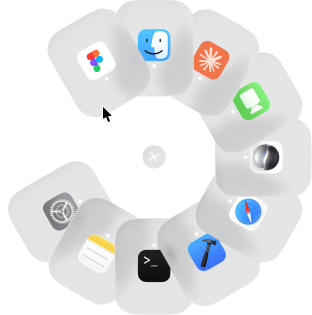
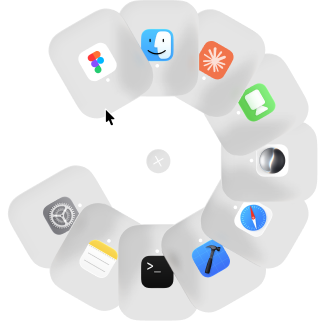
Update Highlight cards with clean unclipped Figma 10:2643 exports

diff --git a/docs/index.html b/docs/index.html
@@ -1313,19 +1313,19 @@
           </div>
         </article>
 
-        <!-- Card 2: Nhấn là mở - click là chuyển (Retina 1024px) -->
+        <!-- Card 2: Nhấn là mở - click là chuyển -->
         <article class="h-card">
           <h3 class="h-card-title" data-i18n="c2_t">Nhấn là mở - click là chuyển</h3>
           <div class="h-card-visual">
-            <img class="rounded-render" src="screenshots/style-rect-light.png" alt="Nhấn là mở - click là chuyển" />
+            <img src="figma/card-click-switch.png?v=3" alt="Nhấn là mở - click là chuyển" />
           </div>
         </article>
 
-        <!-- Card 3: Điều chỉnh giao diện theo sở thích cá nhân (Retina 1024px, unclipped) -->
+        <!-- Card 3: Điều chỉnh giao diện theo sở thích cá nhân -->
         <article class="h-card">
           <h3 class="h-card-title" data-i18n="c3_t">Điều chỉnh giao diện theo sở thích cá nhân</h3>
           <div class="h-card-visual">
-            <img class="rounded-render" src="screenshots/style-liquid-fan.png" alt="Điều chỉnh giao diện" />
+            <img src="figma/card-customize.png?v=3" alt="Điều chỉnh giao diện" />
           </div>
         </article>
 
@@ -1334,7 +1334,7 @@
           <h3 class="h-card-title" data-i18n="c4_t">Giữ nguyên cửa sổ không thay đổi.</h3>
           <div class="h-card-visual">
             <div class="window-preview">
-              <img src="figma/card-window-inner.png" alt="Giữ nguyên cửa sổ" />
+              <img src="figma/card-window-desktop.png?v=3" alt="Giữ nguyên cửa sổ" />
             </div>
           </div>
         </article>
